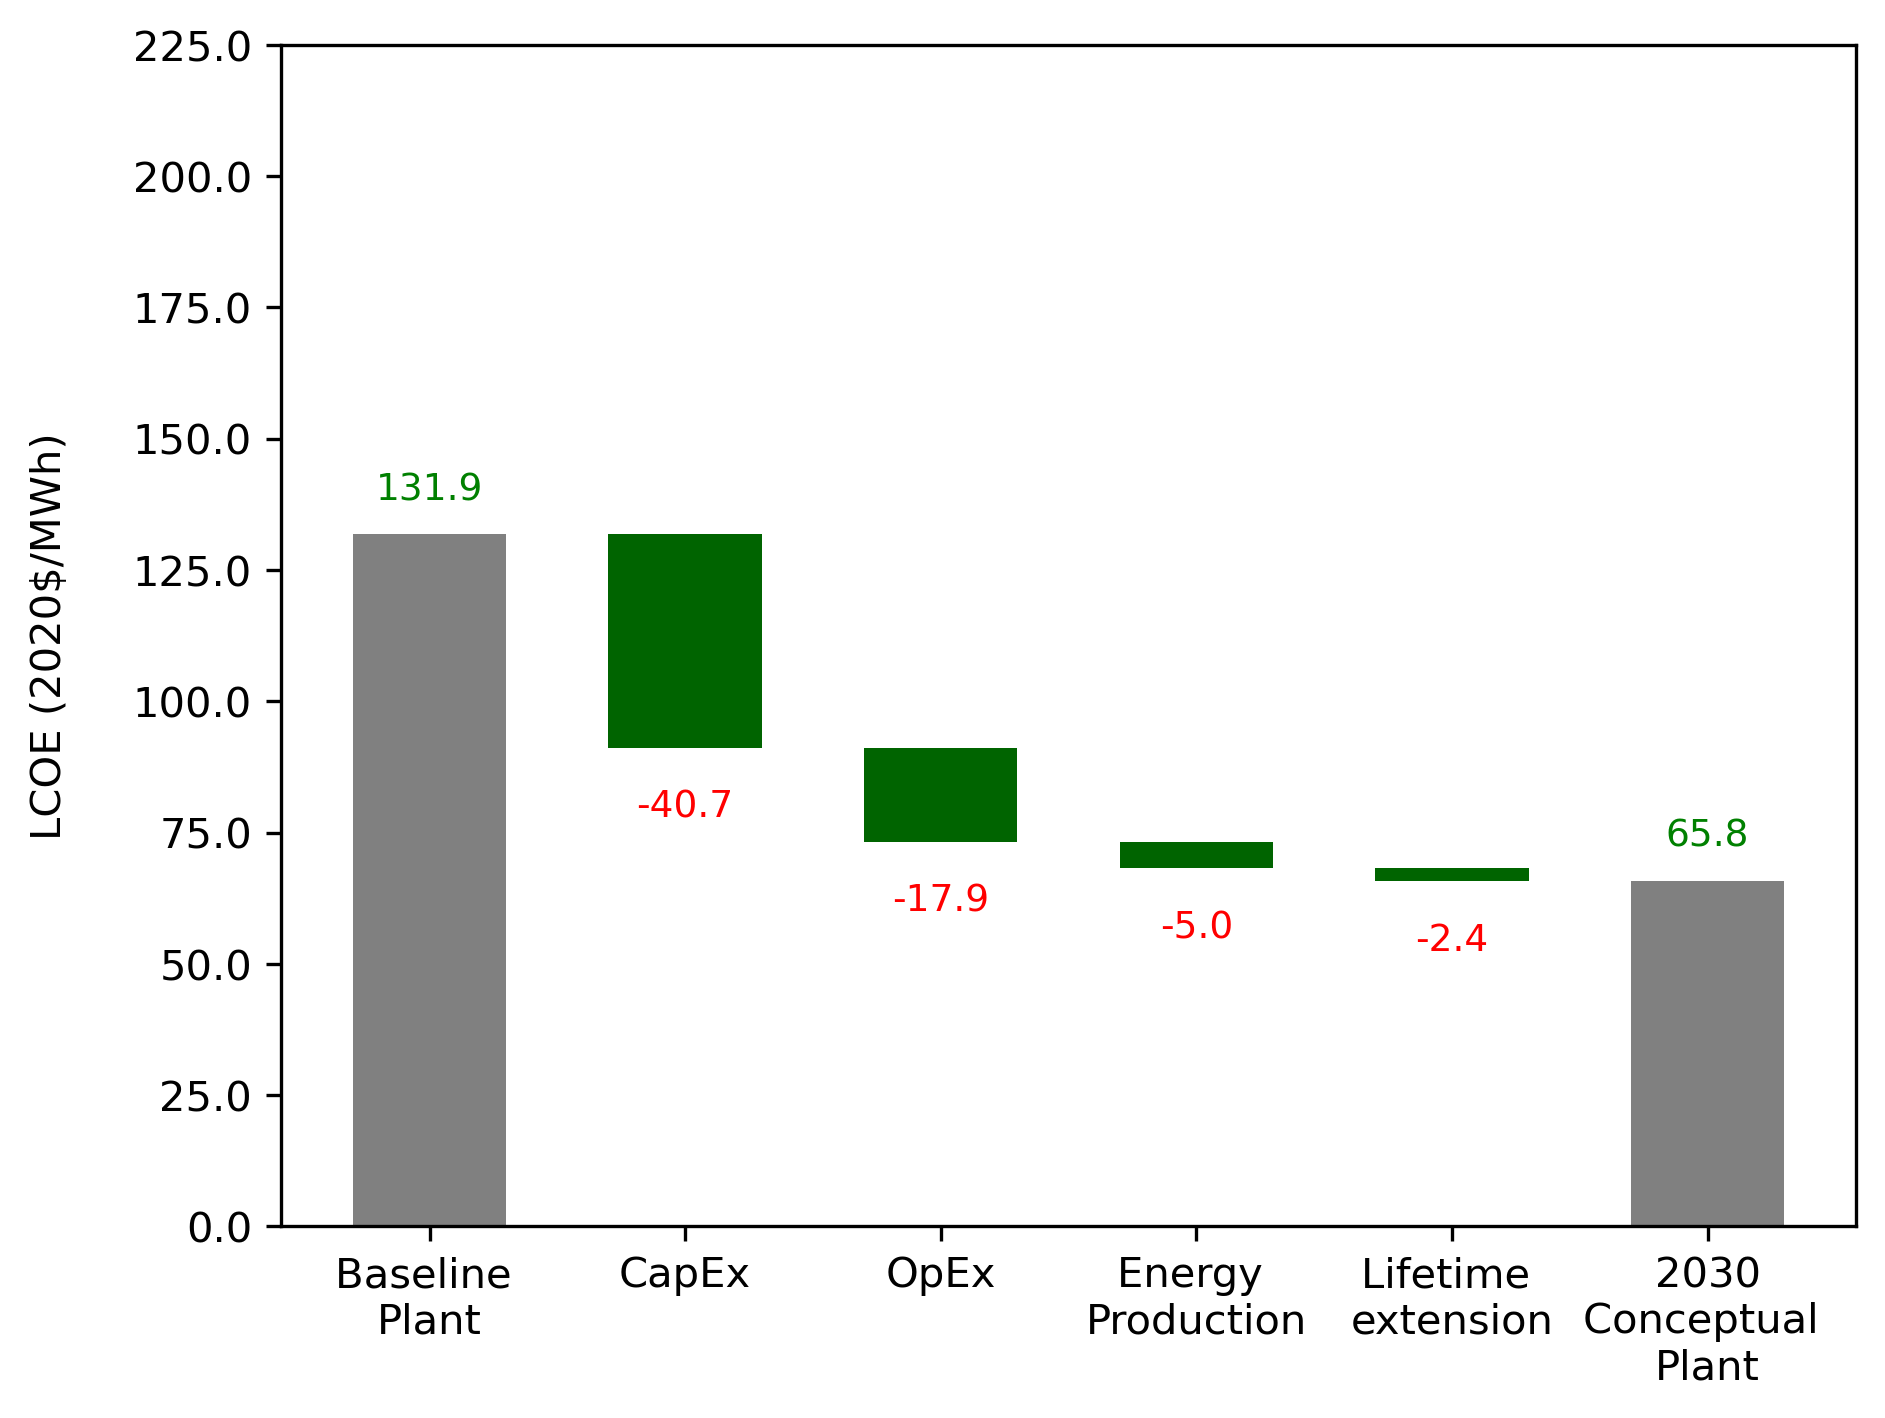
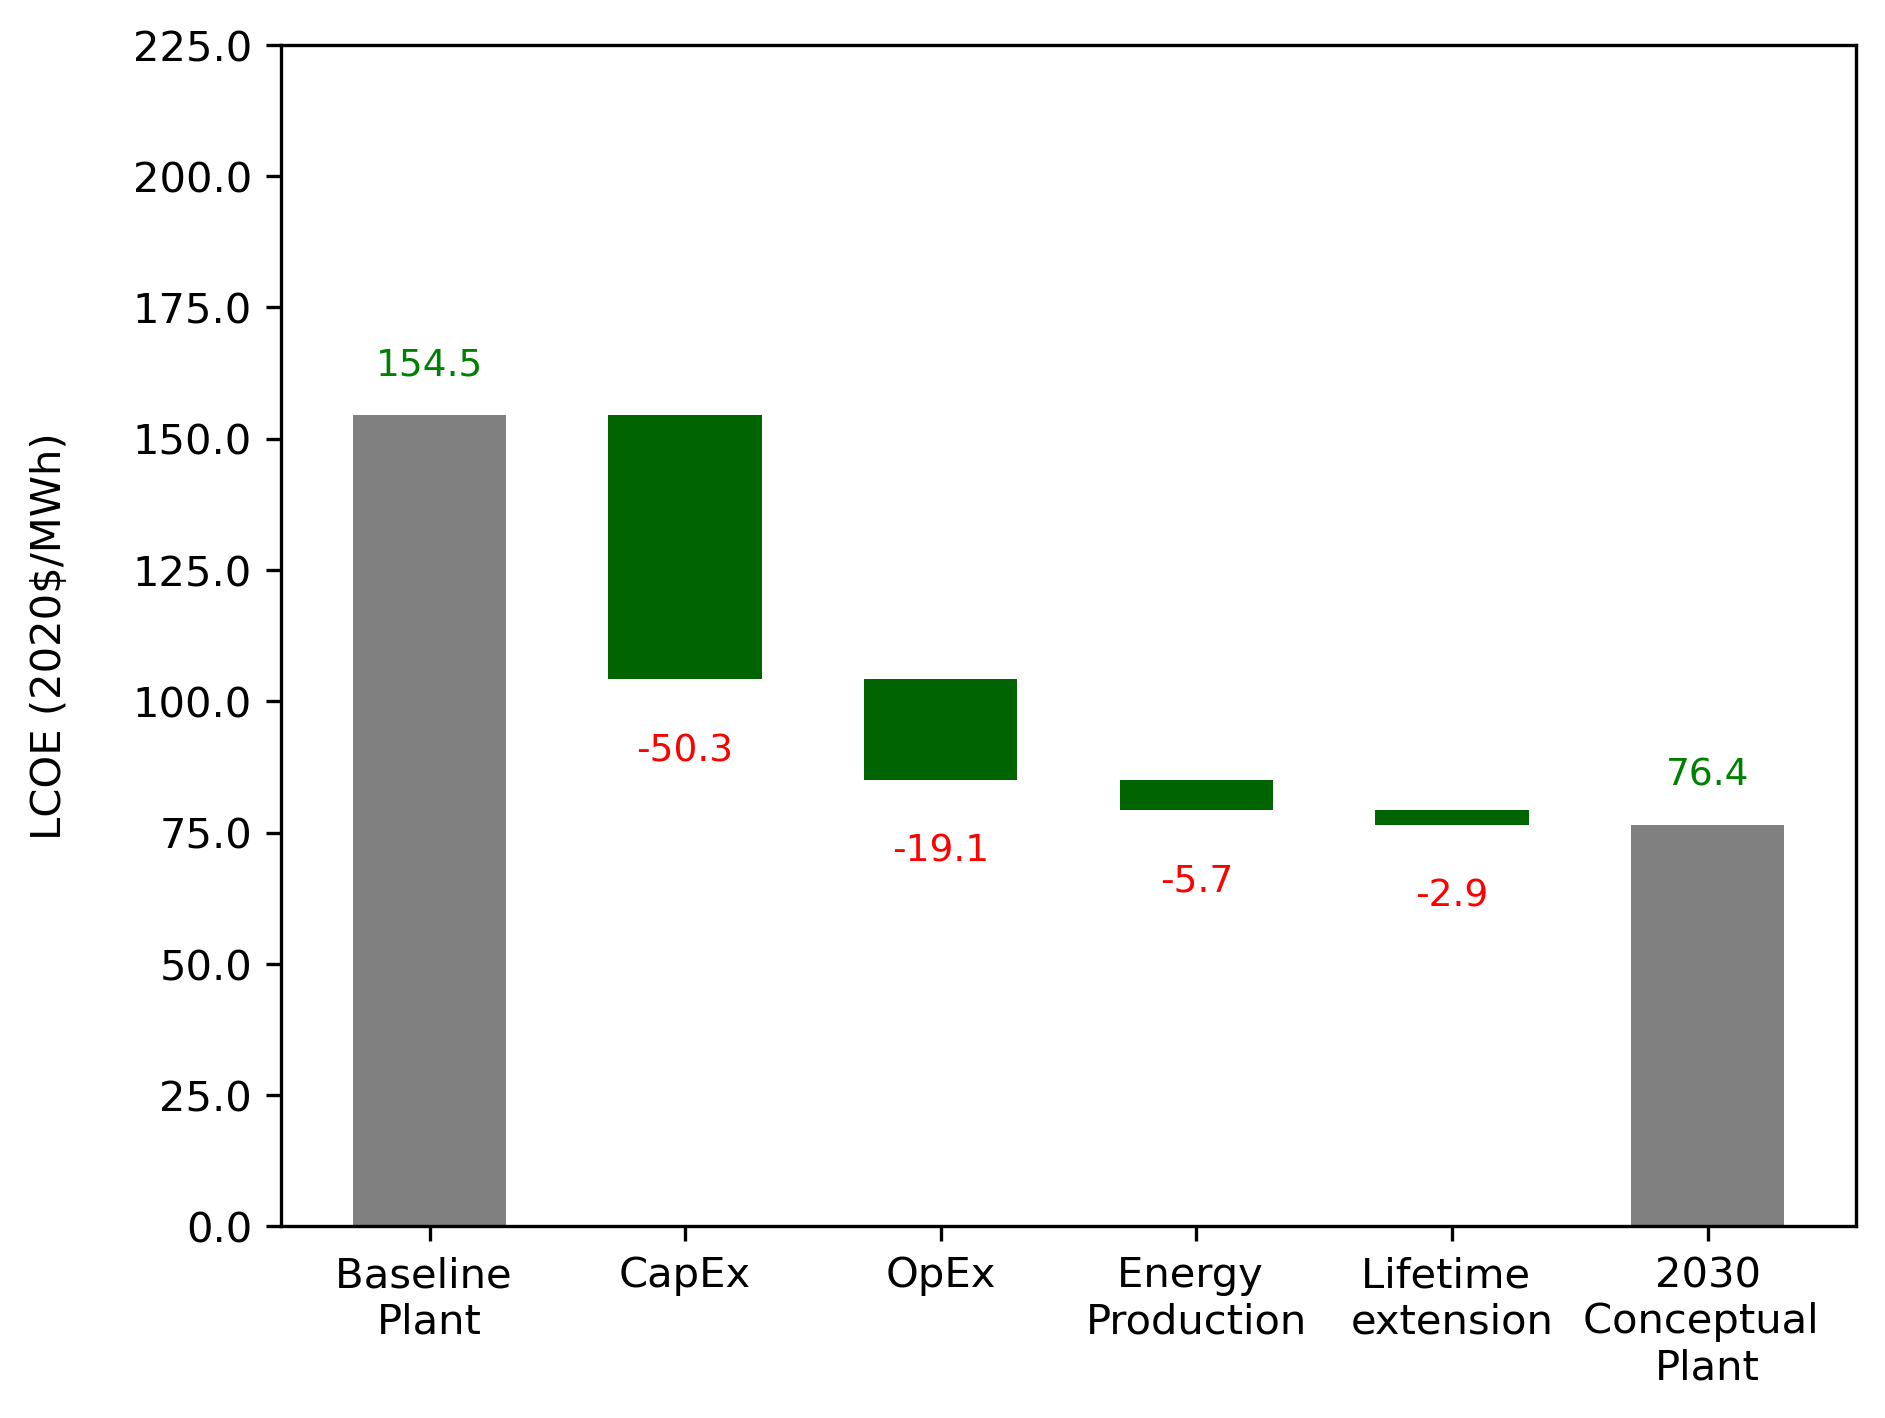
Update year2 to 2035

diff --git a/analysis/LCOE_waterfall.py b/analysis/LCOE_waterfall.py
@@ -11,7 +11,7 @@ if __name__ == '__main__':
     df = pd.read_csv('results/floating_data_out.csv')
 
     year1 = 2023
-    year2 = 2030
+    year2 = 2035
 
     def lcoe_calc(c, o, a, f):
         lcoe = 1000 * (f * c + o) / a
